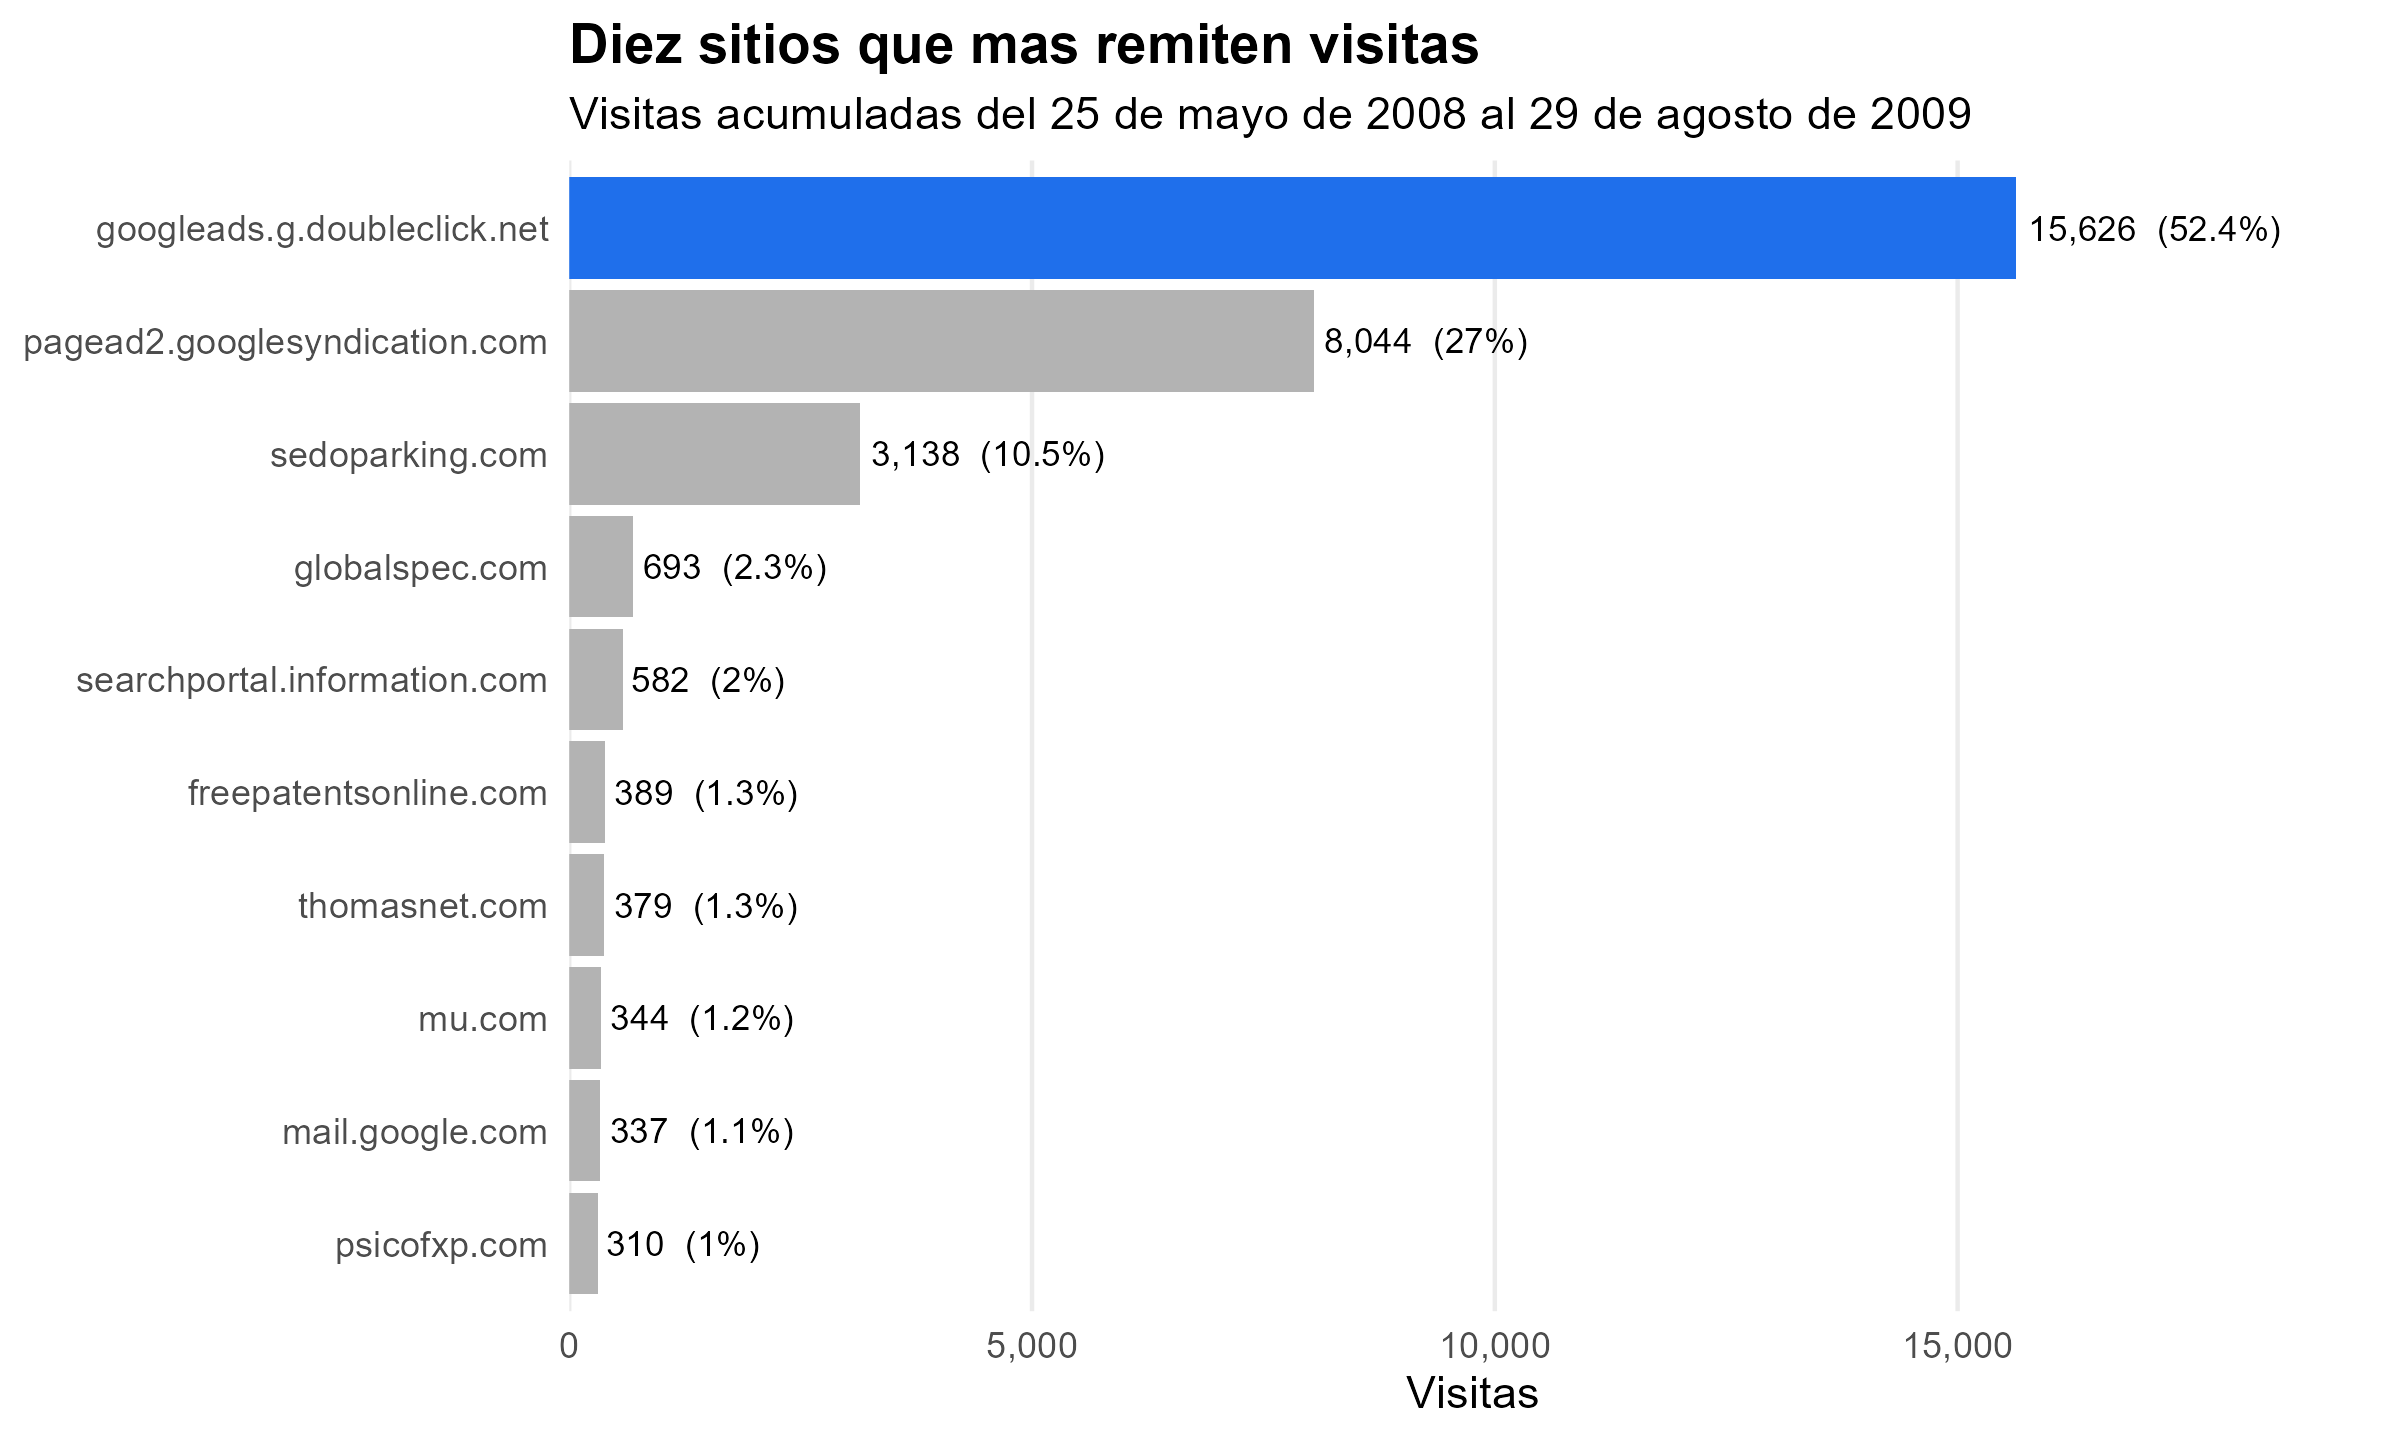
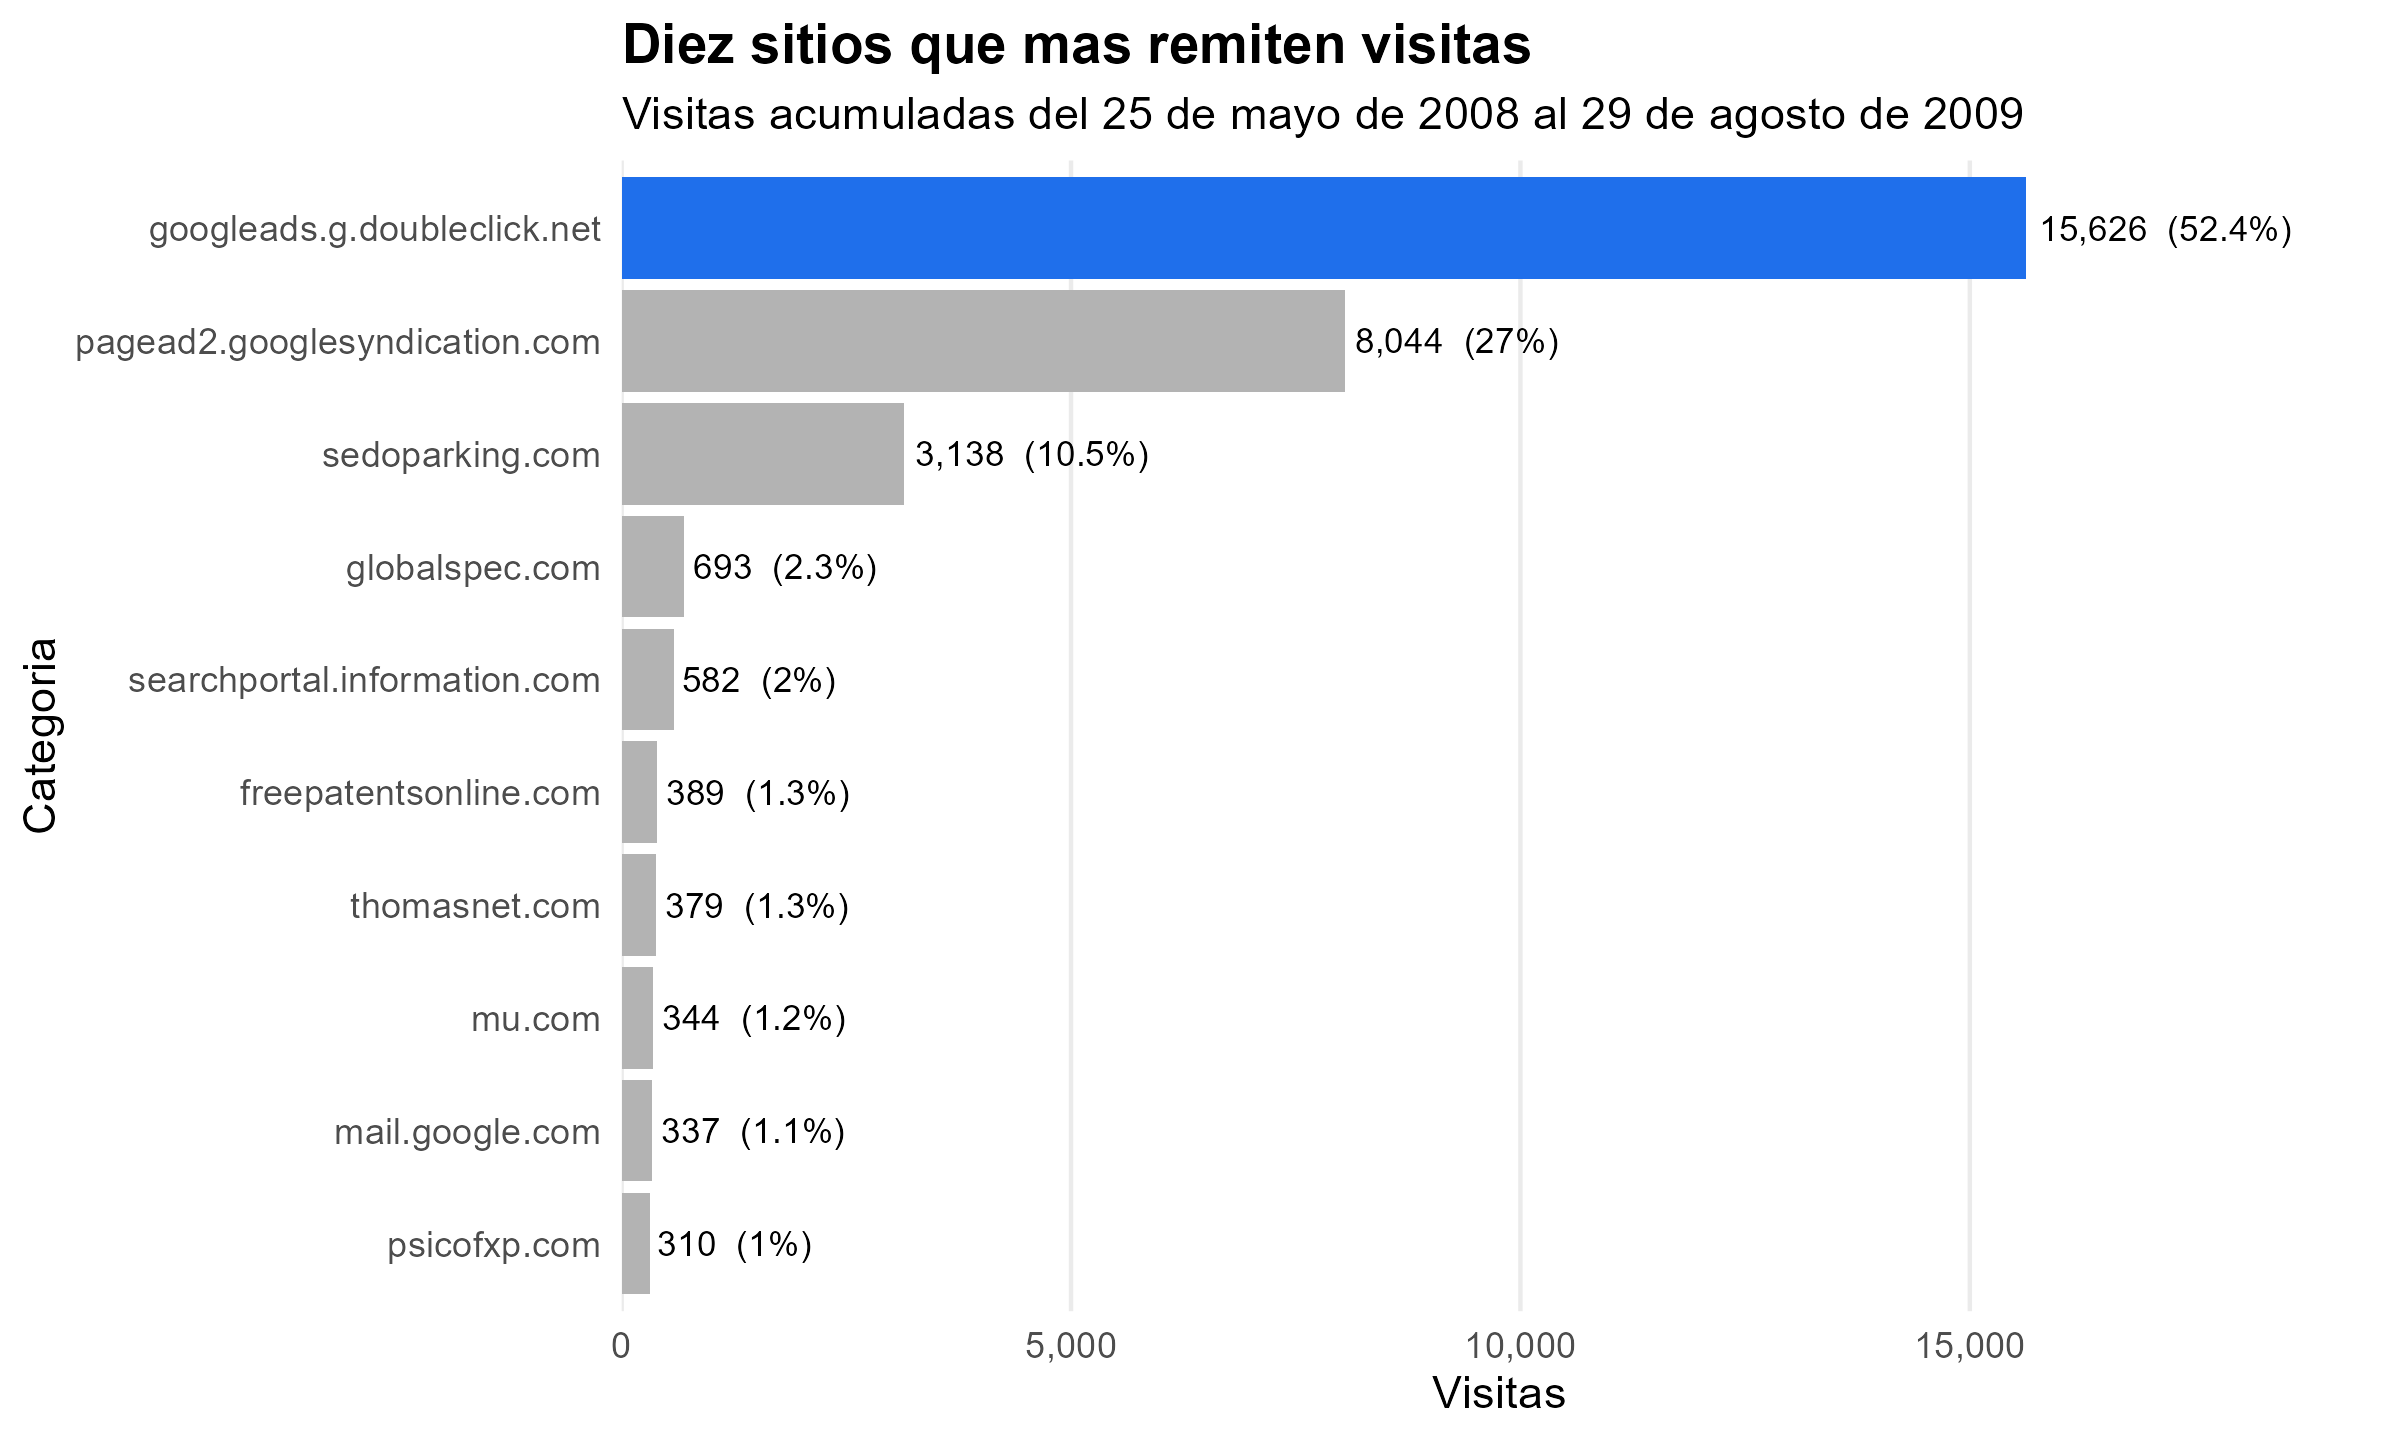
fix: ajustar el resumen ejecutivo a las dos paginas que pide el caso
El caso pide un resumen ejecutivo de una a dos paginas y estaba en tres.
Se recorta a 779 palabras sin quitar hallazgos ni recomendaciones.

Se nombran tambien los ejes que quedaban sin etiqueta en el mapa de
calor de correlaciones y en las barras de demograficos, que la rubrica
de graficas exige.

diff --git a/docs/resumen-ejecutivo.md b/docs/resumen-ejecutivo.md
@@ -8,112 +8,82 @@
 
 ---
 
-### Lo que encontramos
+### Hallazgos
 
-**La promoción compró tráfico, no ventas.** Los USD 25.000 del folleto físico
-triplicaron las visitas al sitio: de 563 visitas semanales promedio en el
-periodo previo a 1.814 durante la promoción, un **aumento del 222 %**. Ninguna
-variable financiera respondió. En esas mismas semanas los ingresos promedio
-cayeron 14,6 %, la utilidad 17,5 % y las consultas al equipo comercial 1,9 %.
+**La promoción compró tráfico, no ventas.** Los USD 25.000 del folleto
+triplicaron las visitas semanales: de 563 en promedio antes de la promoción a
+1.814 durante, **+222 %**. Ninguna variable financiera respondió: los ingresos
+promedio cayeron 14,6 %, la utilidad 17,5 % y las consultas al equipo comercial
+1,9 %.
 
-**Pero la promoción no causó esa caída.** Los ingresos ya venían bajando antes
-de que el folleto saliera: 608.250 → 534.314 → 456.399 → 371.728 dólares
-semanales promedio en los cuatro periodos, un descenso continuo sin quiebre en
-la fecha de la promoción. La ventana de análisis (mayo 2008 – agosto 2009)
-coincide con la recesión que golpeó a la manufactura industrial, que es
-exactamente el cliente de QA. Interpretar la caída como consecuencia de la
-promoción sería confundir coincidencia temporal con causa.
+**Pero la promoción no causó esa caída.** Los ingresos ya venían bajando:
+608.250 → 534.314 → 456.399 → 371.728 dólares semanales promedio en los cuatro
+periodos, un descenso continuo sin quiebre en la fecha del folleto. La ventana
+coincide con la recesión que golpeó a la manufactura industrial, que es el
+cliente de QA.
 
-**El número de visitas no predice los ingresos.** La correlación entre visitas
-semanales e ingresos semanales es **−0,0594**: cero para efectos prácticos. Un
-modelo de ingresos basado en visitas explicaría el 0,35 % de la variación. La
-relación tampoco aparece dentro de ninguno de los cuatro periodos por separado,
-así que no es un problema de agregación. En contraste, ingresos y libras
-vendidas correlacionan 0,8689, como era de esperarse.
+**Las visitas no predicen los ingresos.** La correlación entre visitas e
+ingresos semanales es **−0,0594**: cero. Un modelo basado en visitas explicaría
+el 0,35 % de la variación, y la relación tampoco aparece dentro de ninguno de
+los cuatro periodos por separado. En contraste, ingresos contra libras vendidas
+correlacionan 0,8689.
 
-**La razón está en el tipo de tráfico que se compró.** El 79,3 % de los
-principales sitios remitentes son dos dominios de la red de anuncios de Google
-(googleads.doubleclick.net y pagead2.googlesyndication.com) y el tercero es un
-servicio de dominios aparcados. Los dos portales especializados del sector que
-QA paga a propósito, GlobalSpec y ThomasNet, aportan juntos el 3,6 %. Peor aún,
-la primera región de origen es **Suramérica con el 34,5 %** de las visitas, por
-encima de Norteamérica (26,7 %), mientras que Asia oriental y sudoriental
-juntas no llegan al 8 % —justo el mercado que la compañía había definido como
-prioritario.
+**El problema está en el tipo de tráfico comprado.** El 79,3 % de los
+principales sitios remitentes son dos dominios de la red de anuncios de Google,
+y el tercero es un servicio de dominios aparcados. GlobalSpec y ThomasNet, los
+portales del sector que QA paga a propósito, aportan el 3,6 %. La primera región
+de origen es **Suramérica con el 34,5 %**, por encima de Norteamérica (26,7 %),
+mientras que Asia oriental y sudoriental juntas no llegan al 8 %, justo el
+mercado definido como prioritario.
 
-**El comportamiento del visitante confirma el diagnóstico.** Durante la
-promoción, las páginas vistas por visita bajaron de 2,67 a 1,80, el tiempo en
-sitio de 96 a 49 segundos y la tasa de rebote subió de 59 % a 77 %. Tres veces
-más visitas que miran menos, se quedan menos y se van antes.
+**El comportamiento del visitante lo confirma.** Durante la promoción las
+páginas por visita bajaron de 2,67 a 1,80, el tiempo en sitio de 96 a 49
+segundos y la tasa de rebote subió de 59 % a 77 %. Tres veces más visitas que
+miran menos y se van antes.
 
----
-
-### Lo que recomendamos
+### Recomendaciones
 
 **1. Dejar de medir el sitio por visitas.** El indicador está desconectado del
-negocio. Los indicadores que sí importan son las solicitudes de cotización, la
-tasa de solicitud por visita, y la conversión de solicitud a orden con su valor
-promedio. Hoy QA no puede responder cuántas de las 6,4 consultas semanales
-vinieron del sitio, y esa es la pregunta que decide la inversión.
+negocio. Lo que importa son las solicitudes de cotización, la tasa de solicitud
+por visita y la conversión de solicitud a orden con su valor promedio.
 
-**2. Instrumentar la cadena completa antes de gastar otro dólar en pauta.** Basta
-con marcar el origen de cada solicitud de cotización en el formulario web y
-registrar en el ERP si la consulta llegó por el sitio. Con seis meses de ese
-dato se puede calcular el retorno real de la inversión digital. Sin él,
-cualquier decisión sobre el presupuesto de marketing es a ciegas.
+**2. Instrumentar la cadena antes de gastar más en pauta.** Marcar el origen de
+cada solicitud en el formulario web y registrar en el ERP si la consulta llegó
+por el sitio. Con seis meses de ese dato se calcula el retorno real. Sin él, la
+decisión de presupuesto es a ciegas.
 
-**3. Redirigir la pauta a los portales del sector.** GlobalSpec y ThomasNet
-traen poco volumen pero son los únicos remitentes cuyos visitantes son
-compradores industriales por definición. La red de anuncios de Google y los
-dominios aparcados traen el 79 % del tráfico y ninguna venta detectable.
-Recomendamos suspender la pauta en la red de display, mantener solo búsqueda con
-términos técnicos específicos por grado de aleación, y reasignar ese presupuesto
-a los dos portales especializados.
+**3. Redirigir la pauta a los portales del sector.** Suspender la red de display,
+mantener solo búsqueda con términos técnicos por grado de aleación, y reasignar
+ese presupuesto a GlobalSpec y ThomasNet, cuyos visitantes son compradores
+industriales por definición.
 
-**4. Corregir la segmentación geográfica.** Restringir la pauta a Estados
-Unidos, Canadá, Europa Occidental y el Pacífico asiático. El 45 % del tráfico
-que llega de Latinoamérica no corresponde al mercado que QA atiende y está
-consumiendo presupuesto.
+**4. Corregir la segmentación geográfica.** Restringir la pauta a Estados Unidos,
+Canadá, Europa Occidental y el Pacífico asiático. El 45 % del tráfico llega de
+Latinoamérica, que no es el mercado que QA atiende.
 
-**5. Repetir el folleto solo con medición y grupo de control.** El folleto físico
-demostró capacidad de mover atención, y dejó el tráfico un 52 % por encima del
-nivel previo incluso después de terminar. Eso tiene valor. Pero antes de repetir
-los USD 25.000 hay que enviarlo con código de referencia único y a una muestra
-de la lista, dejando el resto sin enviar como comparación. Es la única forma de
-saber si funciona.
+**5. Repetir el folleto solo con medición y grupo de control.** Demostró mover
+atención y dejó el tráfico 52 % por encima del nivel previo incluso después de
+terminar. Antes de repetir la inversión, enviarlo con código de referencia único
+y a una muestra de la lista, dejando el resto como comparación.
 
 **6. Optimizar para el visitante real.** El 96,6 % entra desde Windows y el
-76,5 % desde Internet Explorer, con presencia móvil nula. El sitio debe probarse
-primero en ese entorno. Y como el 55,8 % del tráfico llega por enlaces de
-terceros y solo el 14 % escribe la dirección directamente, la página de llegada
-tiene que resolver en la primera pantalla qué vende QA y cómo pedir cotización:
-con una tasa de rebote del 66 % en periodo normal, la mayoría de visitantes solo
-ve esa página.
+76,5 % desde Internet Explorer, sin presencia móvil. Y como el 55,8 % del
+tráfico llega por enlaces de terceros y solo el 14 % escribe la dirección
+directamente, la página de llegada debe resolver en la primera pantalla qué
+vende QA y cómo pedir cotización.
 
----
+### Límites del análisis
 
-### Advertencias sobre este análisis
-
-- **No podemos aislar el efecto de la promoción de la recesión.** Los dos
-  fenómenos ocurren al mismo tiempo y no hay grupo de control. Todo lo que
-  afirmamos sobre causalidad es, en el mejor de los casos, una conjetura
-  informada.
-- **El sitio no tiene carrito de compras**, así que ninguna visita se puede
-  vincular directamente a una venta. La correlación de cero mide la relación
-  entre visitas e ingresos *de la misma semana*, y el ciclo real de compra
-  industrial toma semanas. Con los datos disponibles no es posible descartar un
-  efecto rezagado.
-- **Datos que faltan y que pediríamos:** origen de cada solicitud de cotización,
-  fecha y valor de las órdenes derivadas, términos de búsqueda de AdWords con su
-  costo por clic, y las ventas de la competencia o un índice sectorial que
-  permita separar la caída propia de la caída del mercado.
-
-### Sobre la pregunta de fondo
+No podemos aislar el efecto de la promoción de la recesión: ocurren al mismo
+tiempo y no hay grupo de control. El sitio no tiene carrito, así que ninguna
+visita se vincula a una venta, y la correlación medida es contemporánea mientras
+el ciclo de compra industrial toma semanas: no se puede descartar un efecto
+rezagado. Pediríamos el origen de cada solicitud de cotización, el valor de las
+órdenes derivadas, los términos de AdWords con su costo por clic, y un índice
+sectorial para separar la caída propia de la del mercado.
 
 La dirección preguntó si el sitio genera interés y si ese interés se convierte
-en ventas. La respuesta honesta con estos datos es que **el sitio genera
-tráfico, no hay evidencia de que genere ventas, y tampoco hay evidencia de que
-no las genere** — porque QA nunca instaló la medición que permitiría saberlo. La
-primera inversión no debería ser en más pauta, sino en cerrar ese hueco de
-medición. Cuesta muy poco comparado con los USD 25.000 de una promoción cuyo
-resultado, dieciocho meses después, seguimos sin poder calcular.
+en ventas. Con estos datos: **el sitio genera tráfico, no hay evidencia de que
+genere ventas, y tampoco de que no las genere**, porque nunca se instaló la
+medición que permitiría saberlo. La primera inversión debería ser cerrar ese
+hueco, no comprar más pauta.
